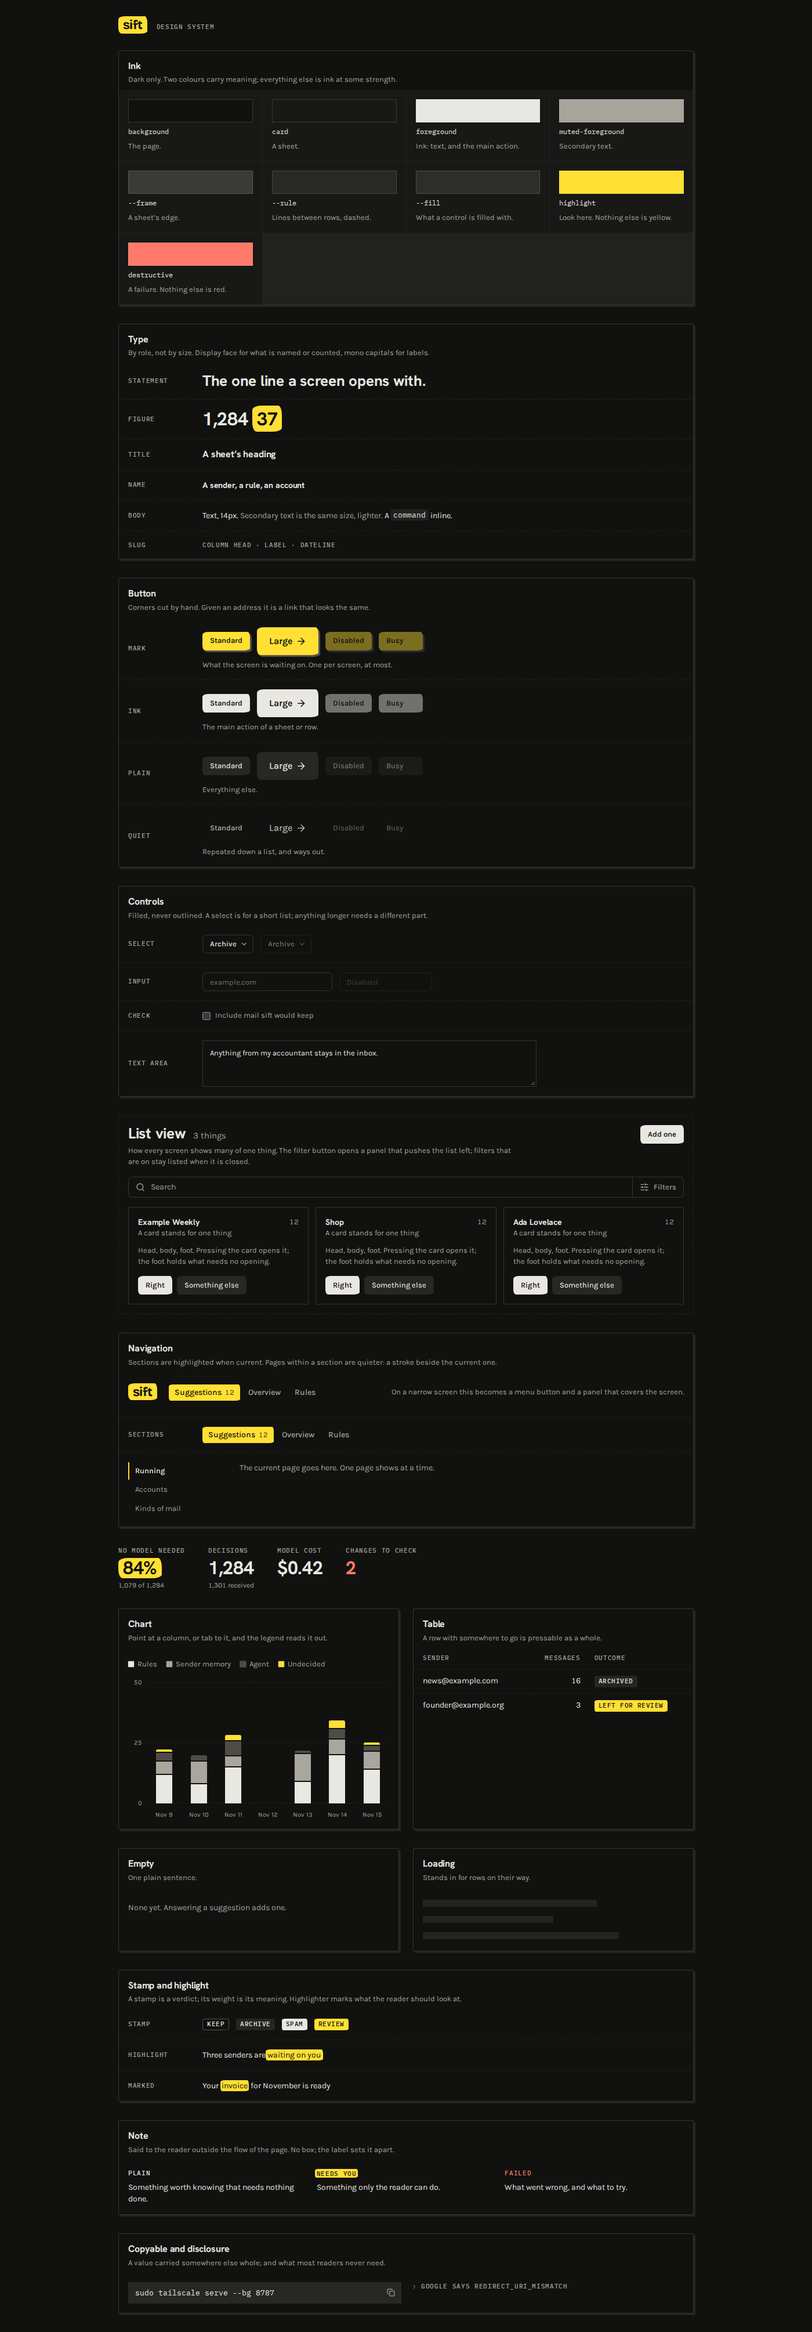
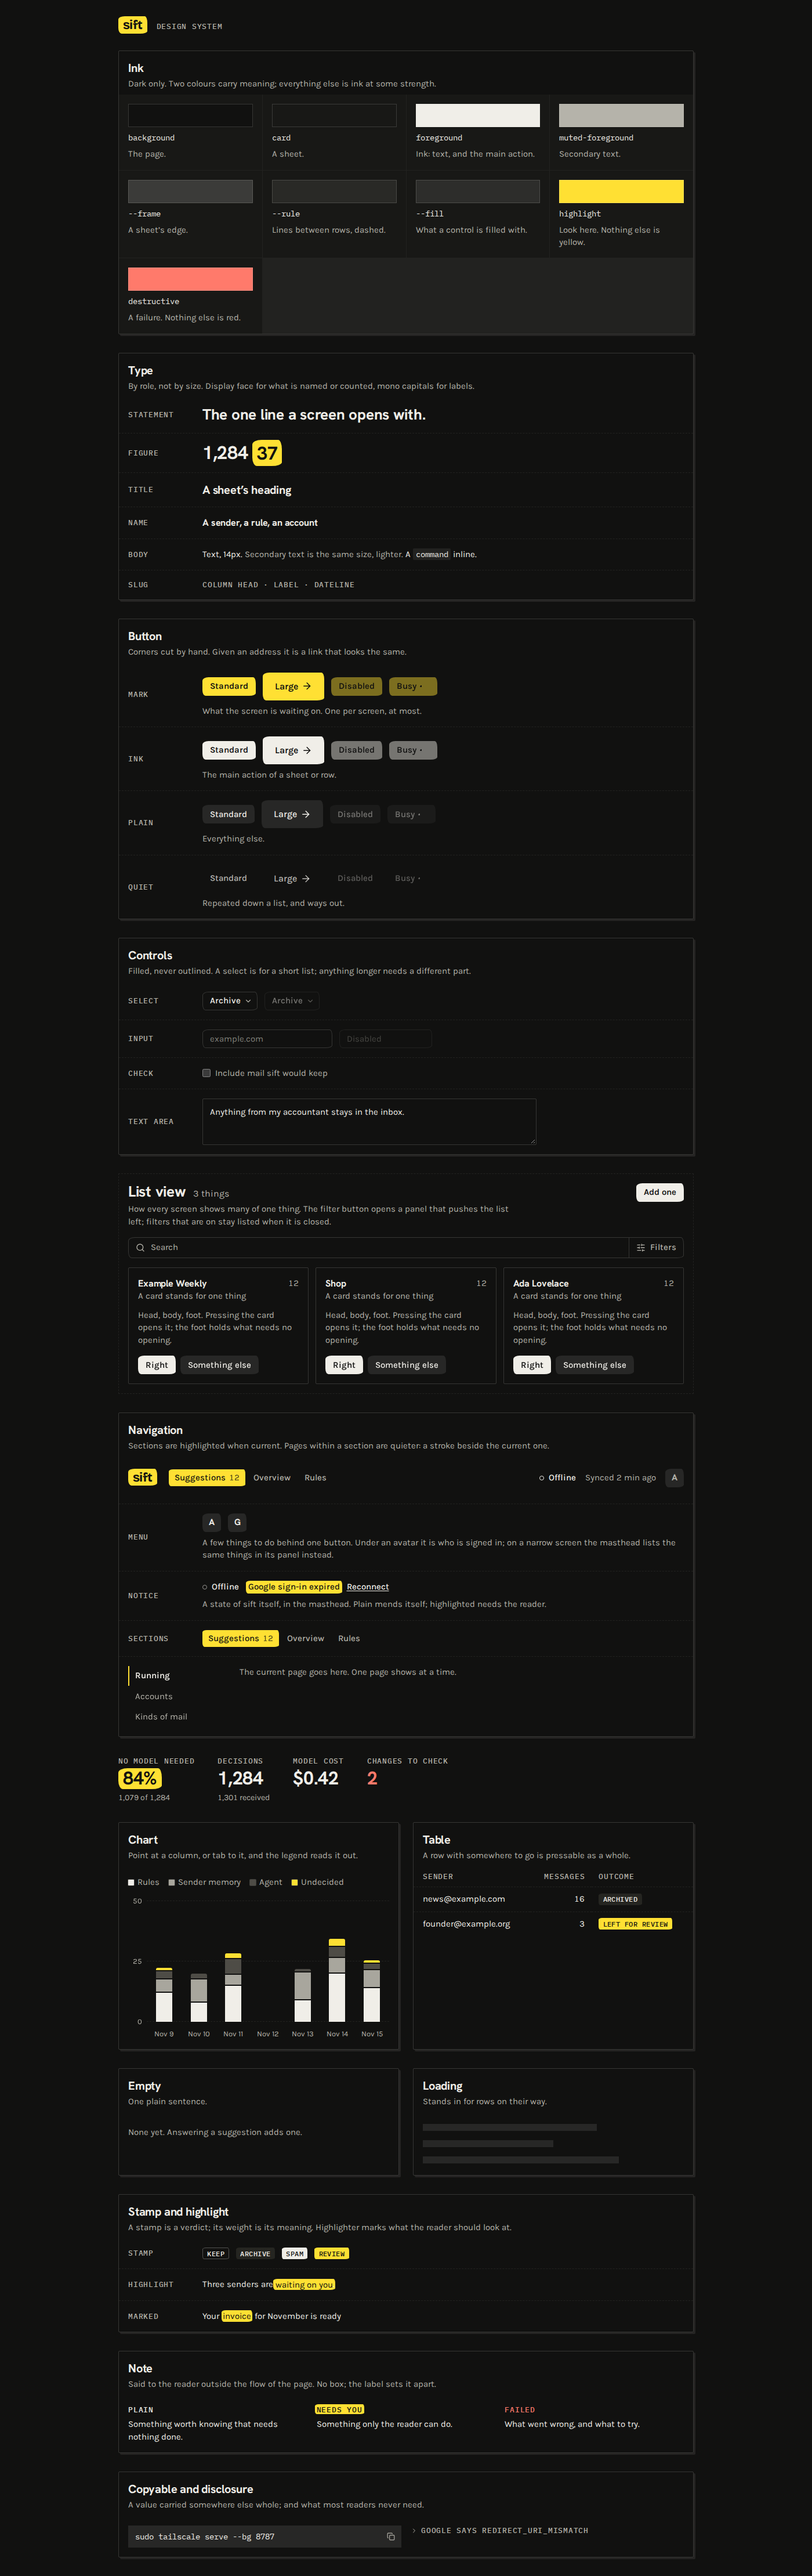
The specimen page stays open and asks the API for nothing
It is rendered outside the sign-in gate, so signed out or in it makes no
/api/ call (checked in a browser; the server test covers /system being
served without a session). The docs image is retaken with the new parts.

diff --git a/web/src/App.tsx b/web/src/App.tsx
@@ -29,6 +29,7 @@ const NAMES: Record<(typeof SECTIONS)[number], string> = {
 /** Shows the sign-in screen until the viewer is signed in, then the dashboard. */
 export function App() {
   const route = useRoute();
+  // The specimen page is open to anyone and holds no data. It is rendered outside the gate so it asks the API for nothing, not even who is signed in.
   if (route[0] === 'system') return <SystemView />;
   return <Gate route={route} />;
 }

diff --git a/docs/DESIGN.md b/docs/DESIGN.md
@@ -1,6 +1,6 @@
 # Design system
 
-The dashboard is built from one small set of parts, in `web/src/system/`. Every part, in every state, is on the specimen page: open the dashboard at `/system`.
+The dashboard is built from one small set of parts, in `web/src/system/`. Every part, in every state, is on the specimen page: open the dashboard at `/system`. It needs no sign-in: it shows only made-up examples and asks the server for no data.
 
 ![The specimen page](images/design-system.png)
 
